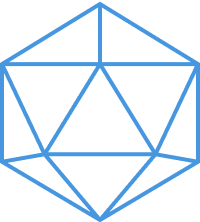
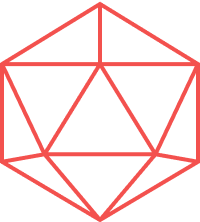
changed style

Changed region(s): [[0.0, 0.0, 1.0, 1.0]]

diff --git a/src/index.scss b/src/index.scss
@@ -16,7 +16,7 @@ code {
 /*** Colors ***/
 
 :root {
-  --bg-color: #090a11;
+  --bg-color: #22234B;
   --bg-color-card: #c2c2d1;
   --card-title: #d7d7e5;
 
@@ -24,16 +24,16 @@ code {
   --text-color-secondary: #7a7a7a;
   --text-color-disabled: #e3e3e3;
 
-  --primary-color: #4797e0;
+  --primary-color: #F3514E;
   --secondary-color-blue: #148eff;
   --secondary-color-purple: #8e7cc3;
   --secondary-color-green: #609a47;
-  --red: #ff1414;
+  --red: #F3514E;
 
   --dp04: #242424;
-  --bg_blue: #16161d;
+  --bg_blue: #090a11;
   /* #1E1D2B, #252736, #1B1F30 */
-  --line: #252736;
+  --line: #fffffff;
 
   --border-color: #ffffff;
 }
@@ -62,14 +62,16 @@ code {
   background: #b30000; 
 }
 
-body {
-  background-color: var(--bg-color);
+#background {
+  background-repeat: no-repeat;
+  background-attachment: fixed;
+  background-size:cover
 }
 
 p,
 label,
 a {
-  font-family: "Lato", Arial, Helvetica, sans-serif;
+  font-family: "Orbitron", Arial, Helvetica, sans-serif;
   letter-spacing: 0.2rem;
 }
 
@@ -86,7 +88,7 @@ a {
 #title {
   color: var(--text-color-primary);
   text-align: center;
-  font-family: "Waiting for the Sunrise", Arial, Helvetica, sans-serif;
+  font-family: "Orbitron", Arial, Helvetica, sans-serif;
   font-size: 3rem;
   letter-spacing: 5px;
 }
@@ -109,8 +111,8 @@ a {
   width: 40%;
   margin: 0;
   margin-bottom: 7px;
-  font-family: "Lato", Arial, Helvetica, sans-serif;
-  background-color: var(--bg-color);
+  font-family: "Orbitron", Arial, Helvetica, sans-serif;
+  /*background-color: var(--bg-color);*/
   text-decoration: none;
   text-align: center;
 }
@@ -156,10 +158,27 @@ input {
   background-color: var(--bg_blue);
   width: 30%;
   border-radius: 10px;
-  transform-origin: left;
+  transform-origin: top left;
   transition: all 1s ease-in-out;
-  transform-origin:bottom left;
   cursor: pointer;
+  border: 1px solid var(--primary-color);
+
+  /*
+  box-shadow:
+  0 0 0.1vw  0.1vw #fff7f7,   
+  0 0 0.4vw  0.15vw #e97272, 
+  0 0   3vw  0.1vw #e50b0b,
+
+  inset 0 0 1.5vw  0.1vw #e50b0b,
+  inset 0 0 0.4vw  0.05vw #e97272,
+  inset 0 0 0.5vw  0.05vw #fff7f7;
+  */
+
+  color: #fff;
+  margin: 40px auto;
+  background-color: rgba(255,255,255,0.06);
+  border: 1px solid rgba(255,255,255,0.1);
+  backdrop-filter: blur(10px);
 
   .shorttitle {
     display: none;
@@ -170,9 +189,15 @@ input {
   }
 }
 
+
+
 .doortotal {
   border-radius: 10px;
-  background-color: var(--bg_blue);
+  /*background-color: var(--bg_blue);*/
+  color: #fff;
+  background-color: rgba(255,255,255,0.06);
+  border: 1px solid rgba(255,255,255,0.1);
+  backdrop-filter: blur(10px);
   display: flex;
 }
 
@@ -181,10 +206,14 @@ input {
   height:45vh;
   width: 7%;
   transition: all 1s ease-in-out;
-  transform-origin: bottom left;
+  transform-origin: top left;
   display: flex;
   flex-direction: column;
-  background-color: var(--bg_blue);
+ /* background-color: var(--bg_blue); */
+ color: #fff;
+ background-color: rgba(255,255,255,0.06);
+ border: 1px solid rgba(255,255,255,0.1);
+ backdrop-filter: blur(10px);
   border-radius: 10px 0 0 10px;
   padding:0 20px;
 
@@ -216,7 +245,7 @@ input {
 
 h3 {
   color: var(--text-color-primary);
-  font-family: "Lato", Arial, Helvetica, sans-serif;
+  font-family: "Orbitron", Arial, Helvetica, sans-serif;
   letter-spacing: 4px;
   text-align: left;
   padding-left: 20px;
@@ -245,7 +274,7 @@ h3 {
 
 .separation {
   width: 80%;
-  height: 2px;
+  /*height: 2px;*/
   background-color: var(--line);
   border-color: var(--line);
 }
@@ -258,18 +287,22 @@ h3 {
 .doorContent {
   width: 95%;
   height: 45vh;
-  background-color: var(--bg_blue);
+  /* background-color: var(--bg_blue); */
+  color: #fff;
+  background-color: rgba(255,255,255,0.06);
+  border: 1px solid rgba(255,255,255,0.1);
+  backdrop-filter: blur(10px);
   float: right;
   border-radius: 0 10px 10px 0;
   transition: all 1.5s ease-out;
-  transform-origin: bottom left; 
-  padding-right:15px;
+  transform-origin: top left; 
+  padding:0 15px;
   overflow-y:auto;
 
   p,
   input,
   div {
-    background-color: var(--bg_blue);
+    /*background-color: var(--bg_blue); */
     color: var(--bg-color-card);
     animation: type 2s steps(60, end); 
   }
@@ -278,11 +311,11 @@ h3 {
 .doorContentEmpty {
   width: 0%;
   height: 45vh;
-  background-color: var(--bg_blue);
-  float: right;
+ /* background-color: var(--bg_blue); */
+  float: left;
 /*   margin-top: 30px; */
   border-radius: 0 10px 10px 0;
-  transform-origin: bottom left;;
+  transform-origin: top left;
   transition: all 1s ease-in-out;
 
   *,
@@ -320,7 +353,11 @@ h3 {
 
   .checkbox {
     -webkit-appearance: none;
-    background-color: #28282f !important;
+    /*background-color: #28282f !important;*/
+    background-color: rgba(255,255,255,0.1);
+    border: 1px solid rgba(255,255,255,0.1);
+    backdrop-filter: blur(30px);
+    color: rgba(255,255,255,0.8);
     border-radius: 3px;
     border: 2px solid var(--line);
     width: 20px;
@@ -331,7 +368,8 @@ h3 {
     content: "\2714";
     color: white;
     margin: auto;
-    background-color: #28282f !important;
+    /*background-color: #28282f !important;*/
+    color: rgba(255,255,255,0.8);
     border-radius: 3px;
   }
 }
@@ -346,21 +384,27 @@ h3 {
   width: 10%;
   margin-right: 5%;
   color: var(--primary-color);
-  background-color: var(--bg-blue);
+  /*background-color: var(--bg-blue);*/
   border-radius: 10px;
   border: solid 1px var(--primary-color);
   padding: 5px 10px;
   cursor: pointer;
-  font-family: "Lato", Arial, Helvetica, sans-serif;
+  font-family: "Orbitron", Arial, Helvetica, sans-serif;
   letter-spacing: 0.2rem;
+  background-color: rgba(255,255,255,0.005);
+  backdrop-filter: blur(30px);
 }
 
 .rollNumber {
   border-color: var(--line);
-  background-color: #28282f !important;
+  /*background-color: #28282f !important;*/
+  background-color: rgba(255,255,255,0.1);
+  border: 1px solid rgba(255,255,255,0.1);
+  backdrop-filter: blur(30px);
+  color: rgba(255,255,255,0.8);
   border-radius: 10px;
   padding: 5px 10px;
-  font-family: "Lato", Arial, Helvetica, sans-serif;
+  font-family: "Orbitron", Arial, Helvetica, sans-serif;
   letter-spacing: 0.2rem;
 }
 

diff --git a/src/App.js b/src/App.js
@@ -5,6 +5,7 @@ import UserContext from "./Counter.js";
 import ChangeContext from "./Change.js";
 import Calender from "./Calender.js";
 import Footer from "./Footer.js";
+import image from "./img/background.png";
 
 export default function App() {
   const counter = {
@@ -17,9 +18,9 @@ export default function App() {
   console.log("change " + change.changer);
 
   return (
-    <>
+    <div id="background" style={{backgroundImage:`url(${image})`}}>
       <div id="grid">
-        <h1 id="title">Frozen Flames</h1>
+        <h1 id="title" >Nemesis</h1>
         <UserContext.Provider value={counter}>
           <ChangeContext.Provider value={change}>
             <TopRow />
@@ -28,7 +29,7 @@ export default function App() {
         </UserContext.Provider>
       </div>
       <Footer />
-    </>
+    </div>
   );
 }
 

diff --git a/index.html b/index.html
@@ -4,12 +4,13 @@
     <meta charset="utf-8" />
     <meta name="viewport" content="width=device-width, initial-scale=1" />
     <title>Schneegestöber</title>
+    <link
+    rel="stylesheet"
+    href="https://fonts.googleapis.com/css?family=Quicksand"
+    />
     <link rel="stylesheet" href="css/style.css" />
     <link rel="icon" href="favicon.png">
-    <link
-      rel="stylesheet"
-      href="https://fonts.googleapis.com/css?family=Waiting+for+the+Sunrise"
-    />
+
 
     <script src="js/script.js"></script>
     <script

diff --git a/public/index.html b/public/index.html
@@ -26,13 +26,13 @@
     -->
       <link
       rel="stylesheet"
-      href="https://fonts.googleapis.com/css?family=Waiting+for+the+Sunrise"
+      href="https://fonts.googleapis.com/css?family=Orbitron"
       />
       <link
       rel="stylesheet"
       href="https://fonts.googleapis.com/css?family=Lato"
       />
-    <title>Frozen Flames</title>
+    <title>Nemesis</title>
   </head>
   <body style="margin:0!important">
     <noscript>You need to enable JavaScript to run this app.</noscript>
